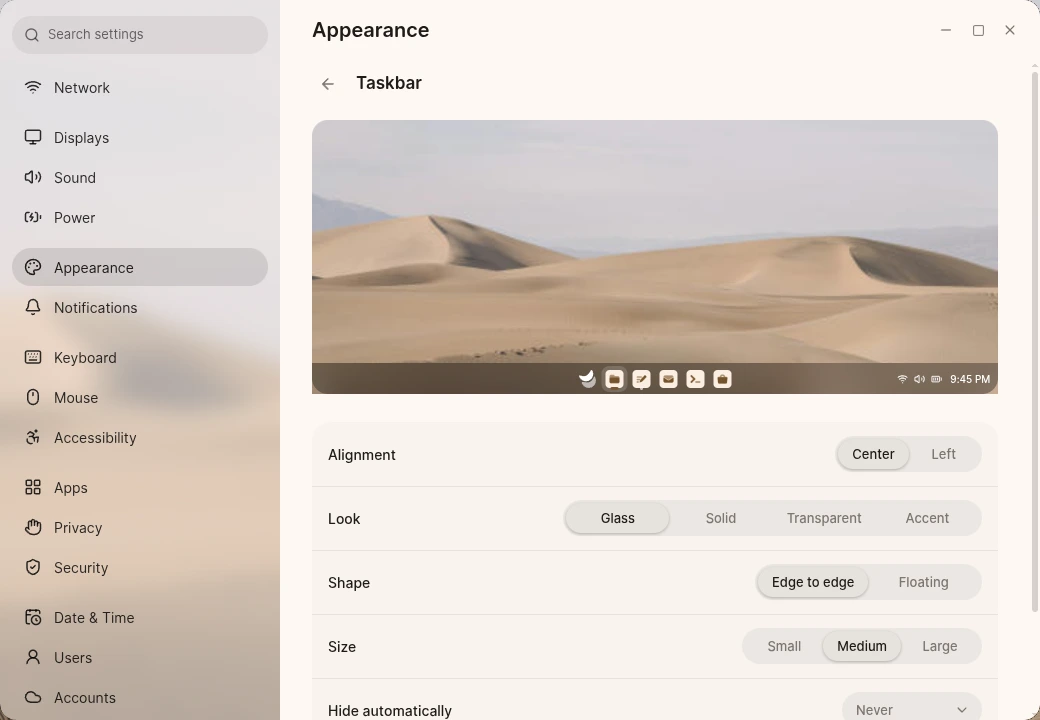
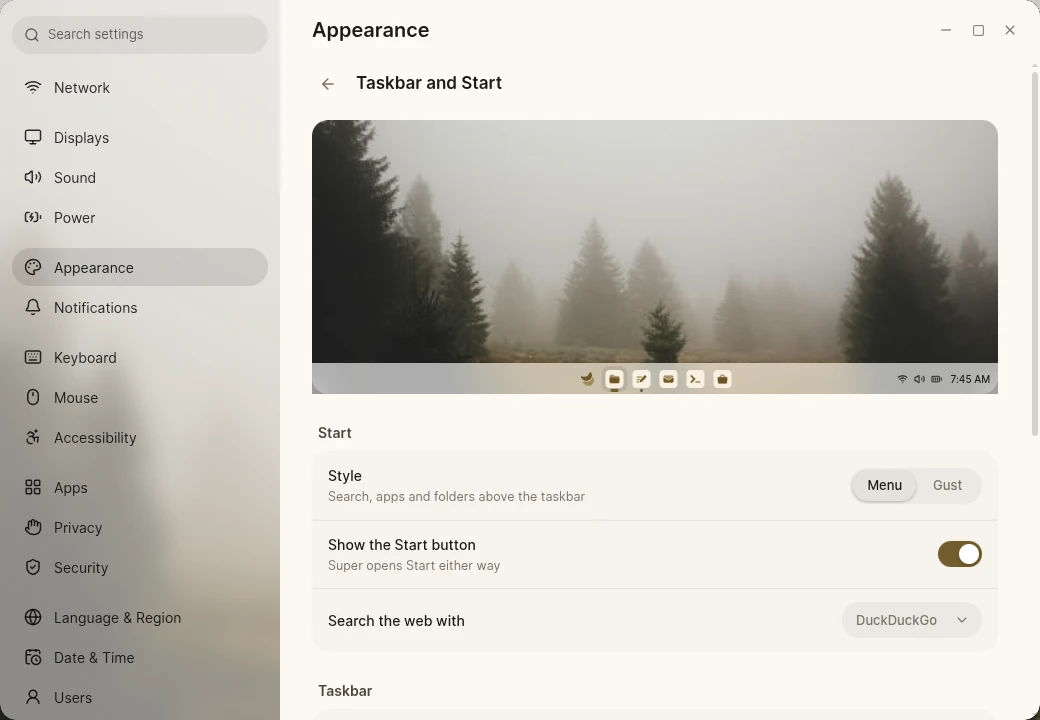
Document Gust, quick answers and the hidden taskbar

diff --git a/web/docs/src/content/docs/desktop/shortcuts.md b/web/docs/src/content/docs/desktop/shortcuts.md
@@ -11,7 +11,7 @@ sidebar:
 
 | Shortcut | Does |
 | --- | --- |
-| <kbd>Super</kbd> | Start |
+| <kbd>Super</kbd> | Start, or [Gust](/desktop/gust/) when chosen. **Open Start** in Settings adds a shortcut of your own |
 | <kbd>Super</kbd> twice | Turn the workspace into a [board](/windows/board/), or back |
 | <kbd>Super</kbd>+<kbd>Tab</kbd> | [All windows](/windows/task-view/) |
 | <kbd>Super</kbd>+<kbd>S</kbd> | Quick settings |
